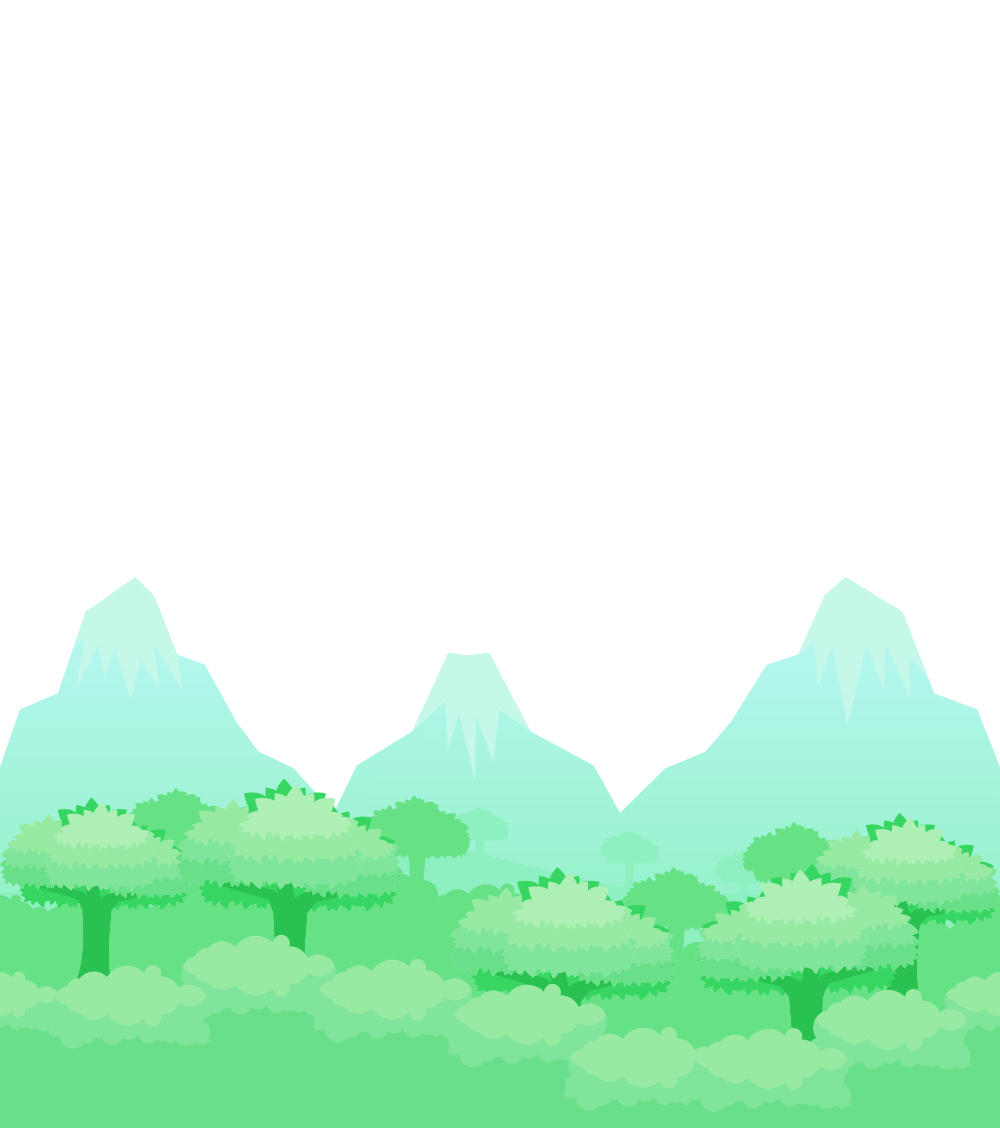
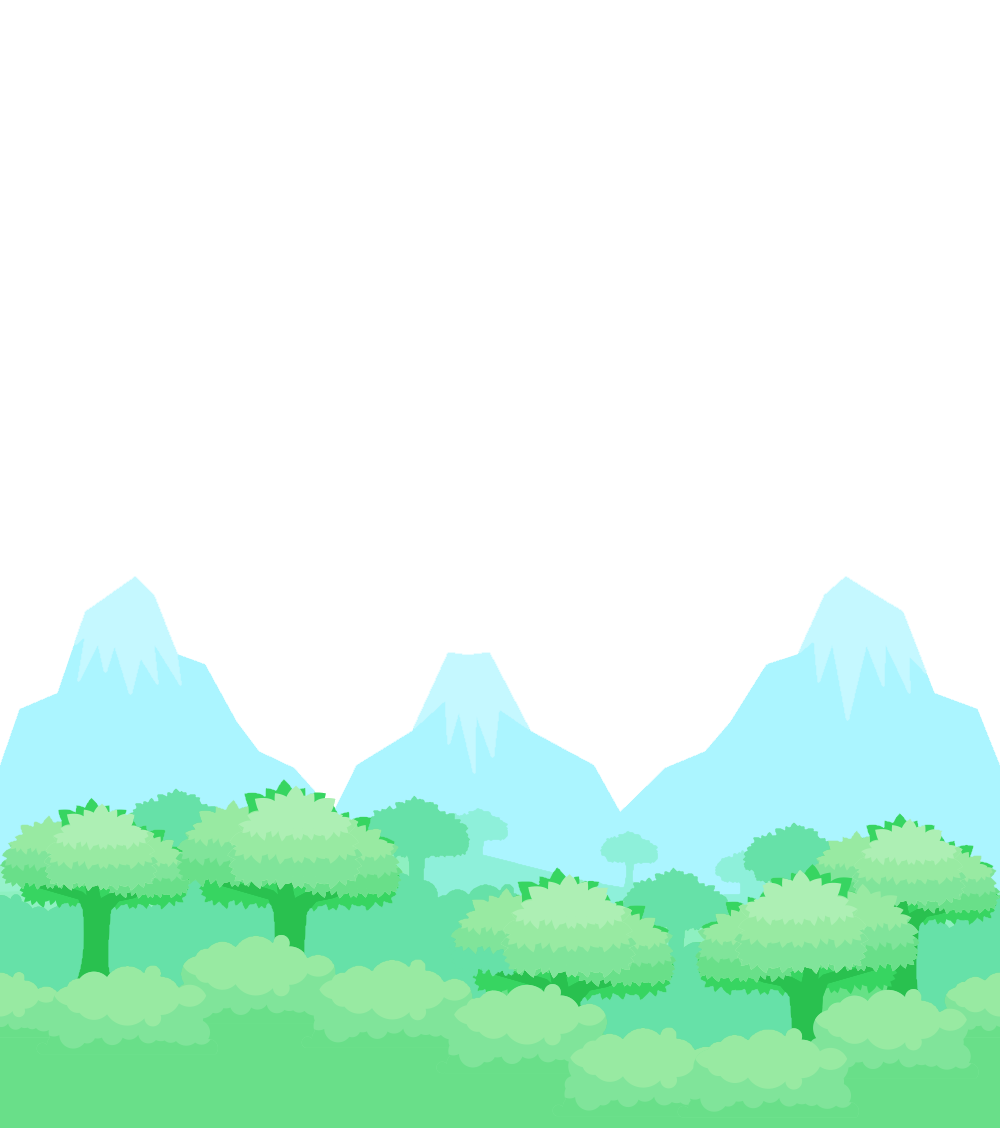
Mountains color fixed.

Changed region(s): [[0.0, 0.6206, 1.0, 0.9309]]

diff --git a/Skachach/Assets/Scripts/Sky/CloudSpawner.cs b/Skachach/Assets/Scripts/Sky/CloudSpawner.cs
@@ -24,7 +24,7 @@ public class CloudSpawner : MonoBehaviour
             new CloudSettings(z: 9.75f, minY: 3f, maxY: 5f, clouds: this.farClouds),
             new CloudSettings(z: 9.25f, minY: 1f, maxY: 4f, clouds: this.farClouds),
             new CloudSettings(z: 8.75f, minY: -2f, maxY: 0f, clouds: this.nearClouds),
-            new CloudSettings(z: 8.25f, minY: -4f, maxY: -2f, clouds: this.nearClouds),
+            new CloudSettings(z: 8.25f, minY: -3f, maxY: -1f, clouds: this.nearClouds),
             new CloudSettings(z: 8.25f, minY: -2f, maxY: 0f, clouds: this.nearClouds)
         };
 
